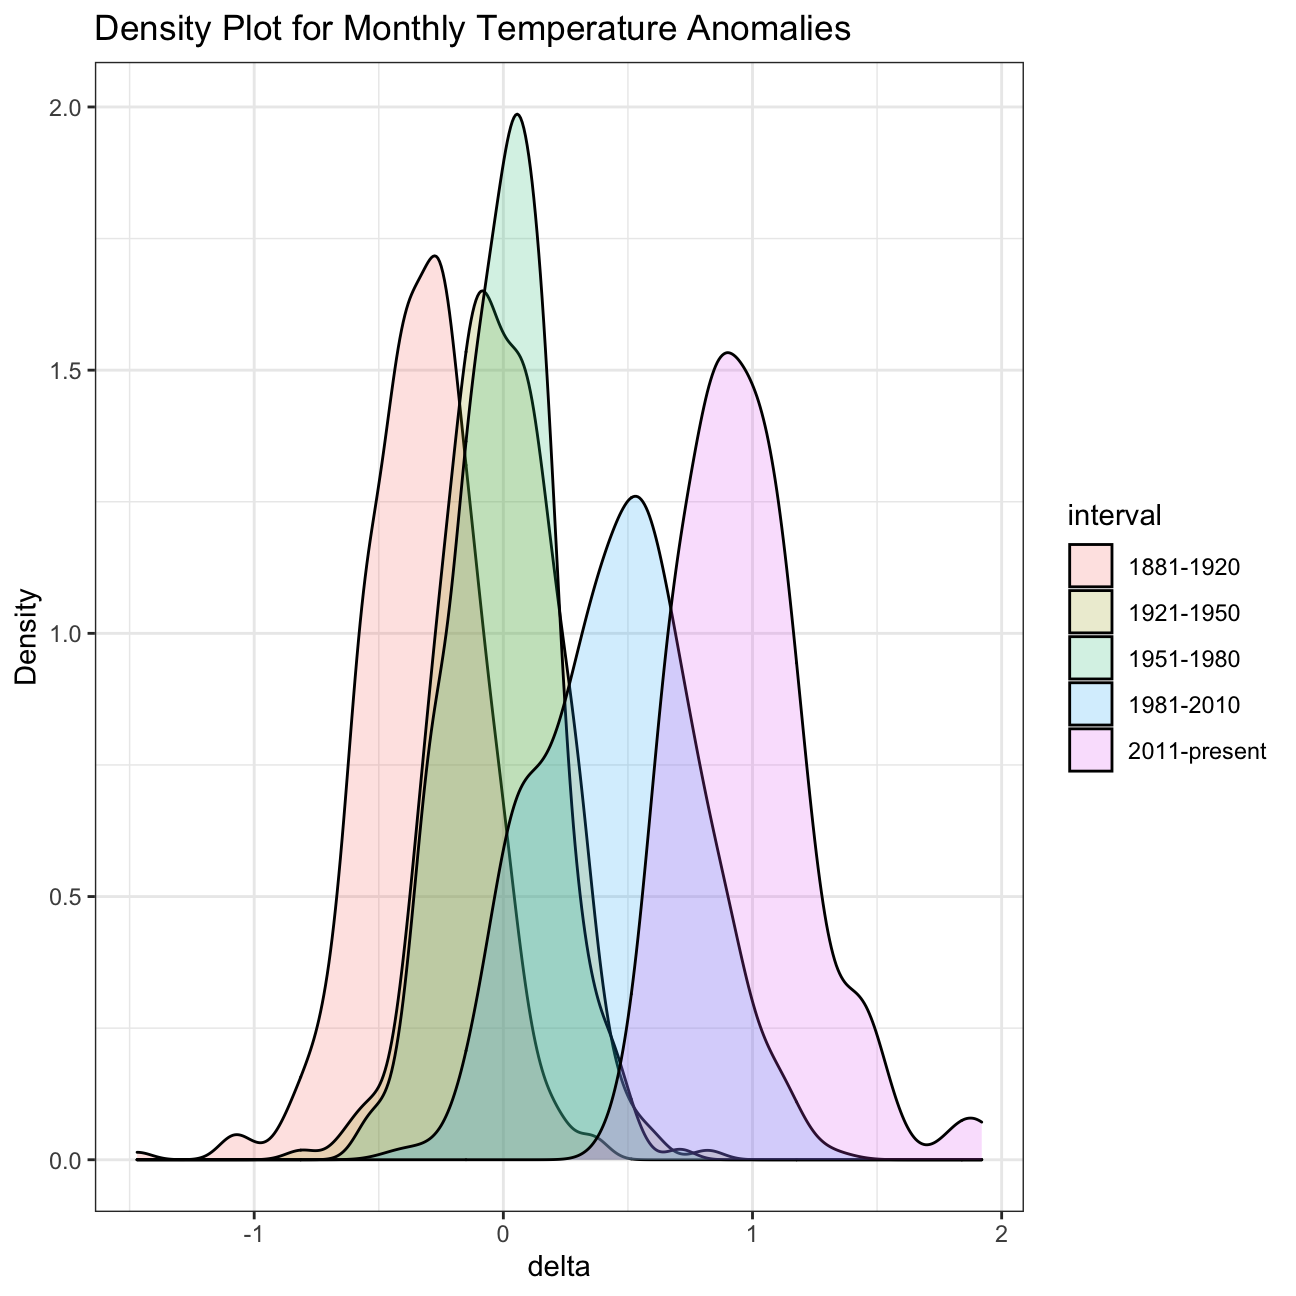
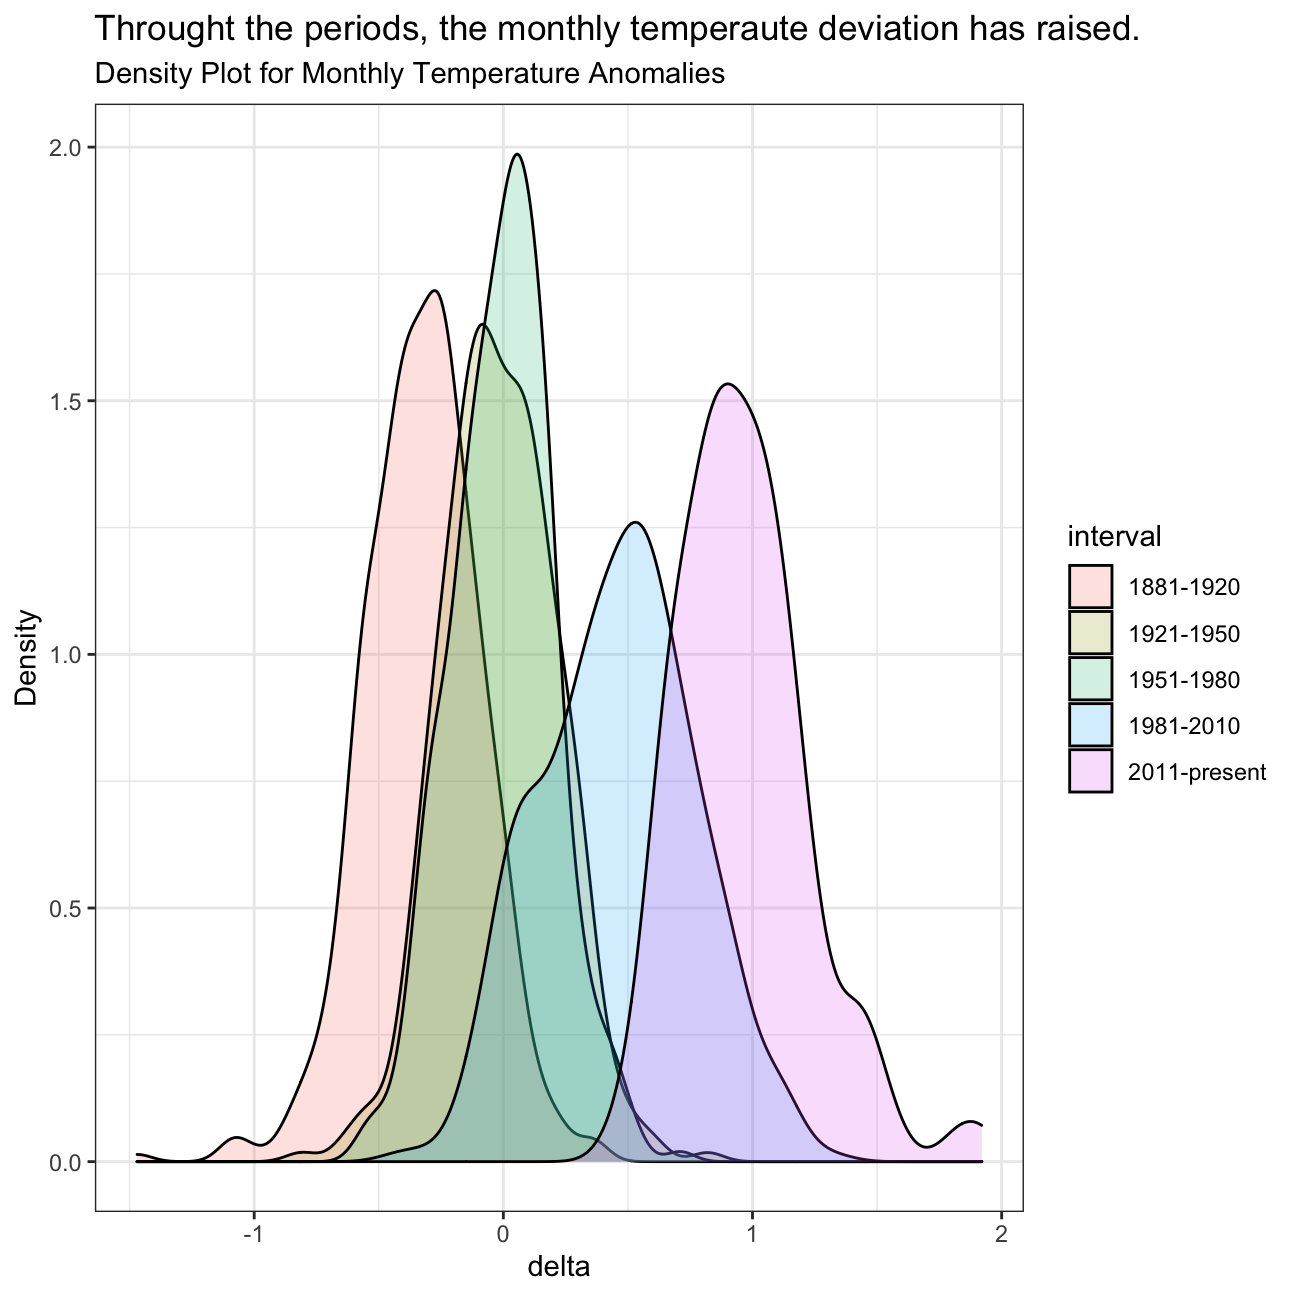
hgdc

diff --git a/content/projects/project3.html b/content/projects/project3.html
@@ -13,7 +13,7 @@ image: project03.jpg
 
 
 
-<p>If we wanted to study climate change, we can find data on the <em>Combined Land-Surface Air and Sea-Surface Water Temperature Anomalies</em> in the Northern Hemisphere at <a href="https://data.giss.nasa.gov/gistemp">NASA’s Goddard Institute for Space Studies</a>. The <a href="https://data.giss.nasa.gov/gistemp/tabledata_v3/NH.Ts+dSST.txt">tabular data of temperature anomalies can be found here</a></p>
+<p>In this project we used data on the <em>Combined Land-Surface Air and Sea-Surface Water Temperature Anomalies</em> in the Northern Hemisphere from <a href="https://data.giss.nasa.gov/gistemp">NASA’s Goddard Institute for Space Studies</a>. The <a href="https://data.giss.nasa.gov/gistemp/tabledata_v3/NH.Ts+dSST.txt">tabular data of temperature anomalies can be found here</a></p>
 <p>To define temperature anomalies we need to have a reference, or base, period which NASA clearly states that it is the period between 1951-1980.</p>
 <p>We will now load the file.</p>
 <pre class="r"><code>weather &lt;- 
@@ -73,8 +73,10 @@ ggplot(tidyweather, aes(x=date, y = delta))+
     title = &quot;Weather Anomalies&quot;
   )</code></pre>
 <p><img src="/projects/project3_files/figure-html/scatter_plot-1.png" width="648" style="display: block; margin: auto;" /></p>
-<p>In the next step, we will try to answer the following question:
-Is the effect of increasing temperature more pronounced in some months?</p>
+<p>In the next step, we will try to answer the following question:</p>
+<blockquote>
+<p>Is the effect of increasing temperature more pronounced in some months?</p>
+</blockquote>
 <p>For that we will use <code>facet_wrap()</code> to produce a seperate scatter plot for each month, again with a smoothing line.</p>
 <p><img src="/projects/project3_files/figure-html/facet_wrap-1.png" width="648" style="display: block; margin: auto;" /></p>
 <p>It is sometimes useful to group data into different time periods to study historical data. For example, we often refer to decades such as 1970s, 1980s, 1990s etc. to refer to a period of time. NASA calcuialtes a temperature anomaly, as difference form the base period of 1951-1980. The code below creates a new data frame called <code>comparison</code> that groups data in five time periods: 1881-1920, 1921-1950, 1951-1980, 1981-2010 and 2011-present.</p>
@@ -88,18 +90,35 @@ Is the effect of increasing temperature more pronounced in some months?</p>
     Year %in% c(1951:1980) ~ &quot;1951-1980&quot;,
     Year %in% c(1981:2010) ~ &quot;1981-2010&quot;,
     TRUE ~ &quot;2011-present&quot;
-  ))</code></pre>
-<p>Inspect the <code>comparison</code> dataframe by clicking on it in the <code>Environment</code> pane.</p>
-<p>Now that we have the <code>interval</code> variable, we can create a density plot to study the distribution of monthly deviations (<code>delta</code>), grouped by the different time periods we are interested in. Set <code>fill</code> to <code>interval</code> to group and colour the data by different time periods.</p>
+  ))
+
+comparison</code></pre>
+<pre><code>## # A tibble: 1,668 x 6
+##     Year Month delta date       monthnr interval 
+##    &lt;dbl&gt; &lt;fct&gt; &lt;dbl&gt; &lt;date&gt;       &lt;dbl&gt; &lt;chr&gt;    
+##  1  1881 Jan   -0.19 1881-01-01       1 1881-1920
+##  2  1881 Feb   -0.25 1881-02-01       2 1881-1920
+##  3  1881 Mar    0.02 1881-03-01       3 1881-1920
+##  4  1881 Apr   -0.02 1881-04-01       4 1881-1920
+##  5  1881 May   -0.06 1881-05-01       5 1881-1920
+##  6  1881 Jun   -0.36 1881-06-01       6 1881-1920
+##  7  1881 Jul   -0.06 1881-07-01       7 1881-1920
+##  8  1881 Aug   -0.03 1881-08-01       8 1881-1920
+##  9  1881 Sep   -0.23 1881-09-01       9 1881-1920
+## 10  1881 Oct   -0.4  1881-10-01      10 1881-1920
+## # … with 1,658 more rows</code></pre>
+<p>Now that we have the <code>interval</code> variable, we can create a density plot to study the distribution of monthly deviations (<code>delta</code>), grouped by the different time periods we are interested in. We will set <code>fill</code> to <code>interval</code> to group and colour the data by different time periods.</p>
 <pre class="r"><code>ggplot(comparison, aes(x=delta, fill=interval))+
   geom_density(alpha=0.2) +   #density plot with tranparency set to 20%
   theme_bw() +                #theme
   labs (
-    title = &quot;Density Plot for Monthly Temperature Anomalies&quot;,
+    title = &quot;Throught the periods, the monthly temperaute deviation has raised.&quot;,
+    subtitle= &quot;Density Plot for Monthly Temperature Anomalies&quot;,
     y     = &quot;Density&quot;         #changing y-axis label to sentence case
   )</code></pre>
-<p><img src="/projects/project3_files/figure-html/density_plot-1.png" width="648" style="display: block; margin: auto;" /></p>
-<p>So far, we have been working with monthly anomalies. However, we might be interested in average annual anomalies. We can do this by using <code>group_by()</code> and <code>summarise()</code>, followed by a scatter plot to display the result.</p>
+<p><img src="/projects/project3_files/figure-html/density_plot-1.png" width="648" style="display: block; margin: auto;" />
+From the graph we can clearly see that the monthly anomalies have raised through time.</p>
+<p>So far, we have been working with monthly anomalies. However, we are also interested in average annual anomalies. We can do this by using <code>group_by()</code> and <code>summarise()</code>, followed by a scatter plot to display the result.</p>
 <pre class="r"><code>#creating yearly averages
 average_annual_anomaly &lt;- tidyweather %&gt;% 
   group_by(Year) %&gt;%   #grouping data by Year
@@ -185,8 +204,5 @@ comparison</code></pre>
 ##   lower_ci upper_ci
 ##      &lt;dbl&gt;    &lt;dbl&gt;
 ## 1    0.908     1.01</code></pre>
-<blockquote>
-<p>What is the data showing us? Please type your answer after (and outside!) this blockquote. You have to explain what you have done, and the interpretation of the result. One paragraph max, please!</p>
-</blockquote>
 <p>We first cleansed dataframe <code>weather</code> and converted it into long form (<code>tidyweather</code>). To increase relevance of analysis, we next removed all entries prior to 1880 and classified all the remaining rows into different year bundles (‘comparison’). We then try to capture the average annual delta (with 95% confidence) by building a 95% confidence interval through two methods: by formula and by bootstrapping. From the CIs we obtain, we can say we are 95% confident that the true mean lies in proximity of our confidence intervals. Note however, for practical purposes the bootstrapping one would be more useful when predicting long term and general behaviour since it is narrower.</p>
 </div>
